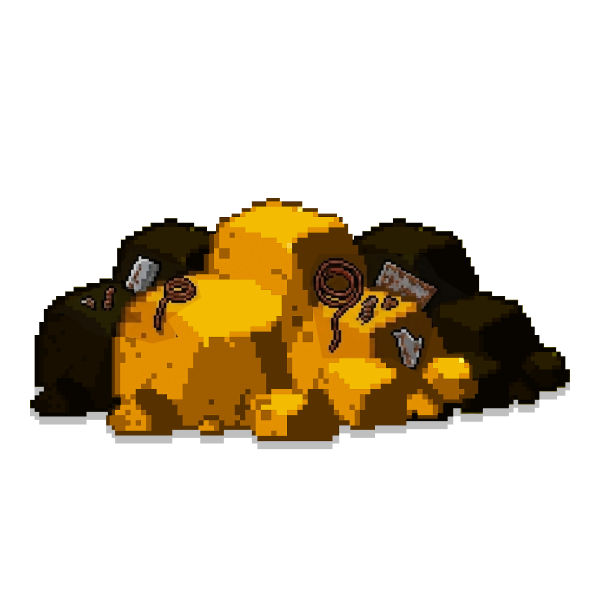
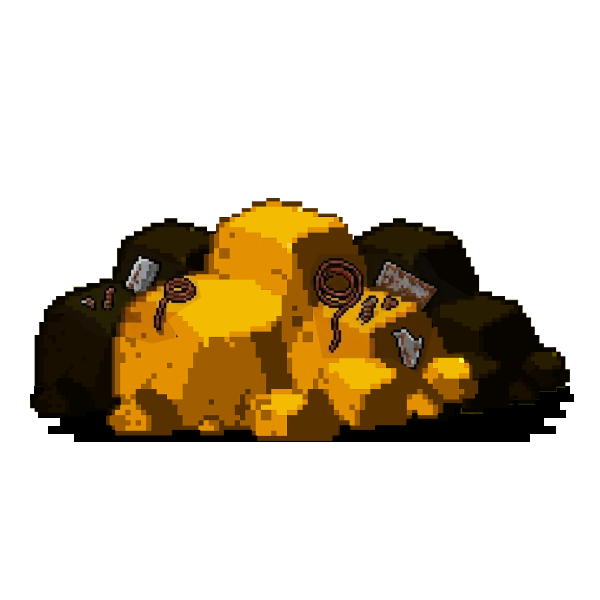
Update images for new Bot-Shot theme

Changed region(s): [[0.06, 0.63, 0.96, 0.75], [0.06, 0.63, 0.09, 0.66], [0.03, 0.66, 0.06, 0.69]]

diff --git a/src/styles.css b/src/styles.css
@@ -1,6 +1,6 @@
 html {
   /*background: url('./assets/background.png') no-repeat center center fixed;*/
-  background: url('https://github.com/Thinkful-Ed/js-dev-final-capstone-starter/blob/main/assets/background.png?raw=true') no-repeat center center fixed;
+  background: url('../assets/alt/background-alt.png') no-repeat center center fixed;
   box-sizing: border-box;
   -webkit-background-size: cover;
   -moz-background-size: cover;
@@ -56,21 +56,21 @@ h2 {
 .hole:after {
   display: block;
   /*background: url("./assets/hole.png") bottom center no-repeat;*/
-  background: url("https://github.com/Thinkful-Ed/js-dev-final-capstone-starter/blob/main/assets/hole.png?raw=true") bottom center no-repeat;
+  background: url("../assets/alt/rubble.png") bottom center no-repeat;
   background-size:contain;
   content:'';
   width: 100%;
   height: 100%;
   position: absolute;
-  bottom: -40%;
+  bottom: -27%;
   z-index: 2;
   pointer-events:none;
 }
 
 .mole {
   /*background:url('./assets/mole.png') bottom center no-repeat;*/
-  background:url('https://github.com/Thinkful-Ed/js-dev-final-capstone-starter/blob/main/assets/mole.png?raw=true') bottom center no-repeat;
-  background-size: 40%;
+  background:url('../assets/alt/robot.png') bottom center no-repeat;
+  background-size: 60%;
   position: absolute;
   top: 100%;
   width: 100%;
